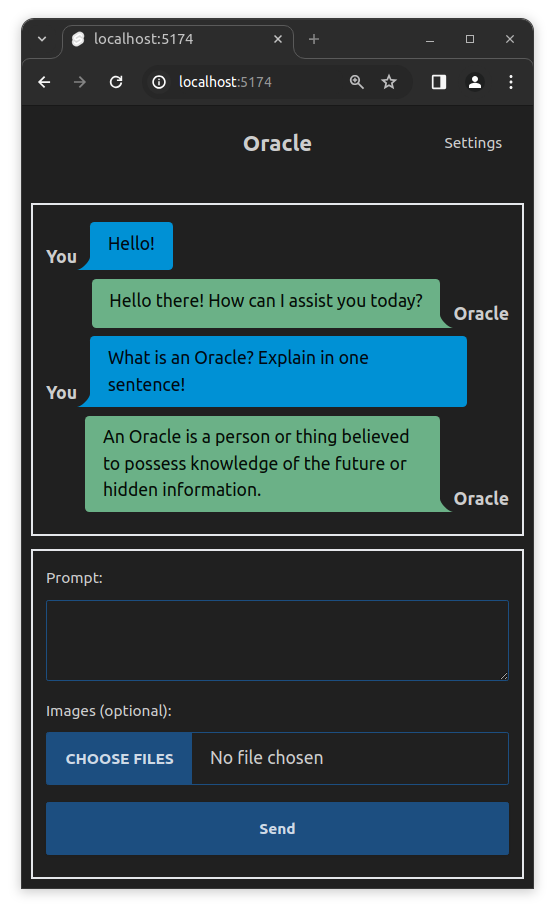
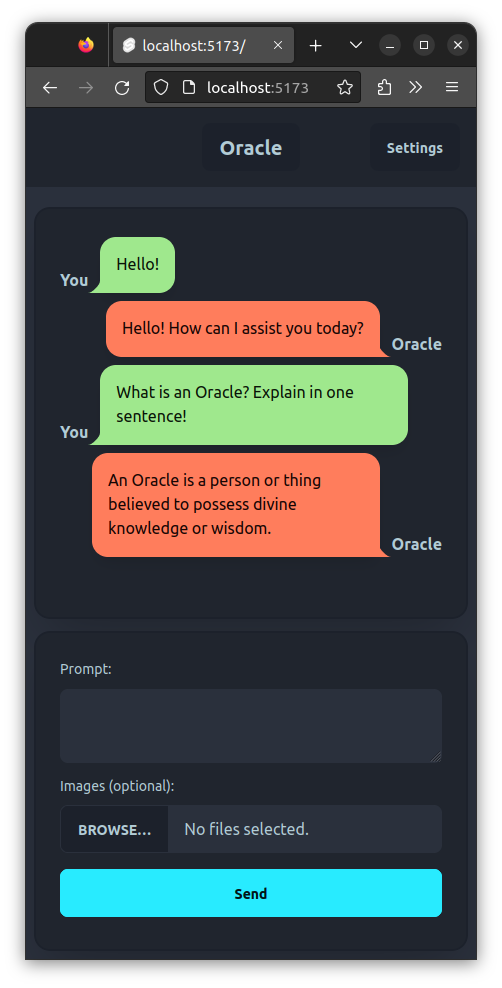
Update UI and error handling logic

diff --git a/src/routes/+page.svelte b/src/routes/+page.svelte
@@ -35,7 +35,11 @@
 
 		$messages = [...$messages, { role: 'user', parts: result }];
 		$messages = [...$messages, { role: 'model', parts: '' }];
-		await queryModel(input, history, debug, (text) => {
+		await queryModel(input, history, debug, (text, error) => {
+			if (error) {
+				$messages[$messages.length - 1].parts = text;
+				return;
+			}
 			$messages[$messages.length - 1].parts += text;
 		});
 
@@ -47,46 +51,53 @@
 	}
 </script>
 
-<div class="mt-3 flex-grow overflow-y-auto border-2 bg-base-100 p-3" use:scrollToBottom={$messages}>
+<div
+	class="mt-3 flex-grow overflow-y-auto rounded-2xl border-2 border-neutral bg-base-300 p-6 shadow-2xl"
+	use:scrollToBottom={$messages}
+>
 	{#each $messages as { role, parts }}
 		{#if role === 'user'}
 			<div class="chat chat-start">
-				<div class="chat-image">
+				<div class="chat-image text-base-content">
 					<strong>You</strong>
 				</div>
-				<div class="chat-bubble chat-bubble-info break-words">{@html marked.parse(parts)}</div>
+				<div
+					class="border-1 chat-bubble chat-bubble-primary break-words border-neutral p-4 text-primary-content shadow-lg"
+				>
+					{@html marked.parse(parts)}
+				</div>
 			</div>
 		{:else if role === 'model'}
 			<div class="chat chat-end">
-				<div class="chat-image">
+				<div class="chat-image text-base-content">
 					<strong>Oracle</strong>
 				</div>
-				<div class="chat-bubble chat-bubble-success break-words">{@html marked.parse(parts)}</div>
+				<div
+					class="border-1 chat-bubble chat-bubble-secondary break-words border-neutral p-4 text-secondary-content shadow-lg"
+				>
+					{@html marked.parse(parts)}
+				</div>
 			</div>
 		{/if}
 	{/each}
 </div>
-<div class="mt-3 border-2 bg-base-100 p-3">
-	<span class="label-text mr-3">Prompt:</span>
-	<textarea
-		class="textarea textarea-bordered textarea-primary my-2 w-full"
-		disabled={sending}
-		bind:value={prompt}
-	/>
+<div class="mt-3 rounded-2xl border-2 border-neutral bg-base-300 p-6 shadow-2xl">
+	<span class="label-text mr-3 text-base-content">Prompt:</span>
+	<textarea class="textarea-neutral textarea my-2 w-full" disabled={sending} bind:value={prompt} />
 
-	<span class="label-text mr-3">Images (optional):</span>
+	<span class="label-text mr-3 text-base-content">Images (optional):</span>
 	<input
 		type="file"
 		accept="image/*"
 		multiple
-		class="file-input file-input-bordered file-input-primary my-2 w-full"
+		class="file-input-neutral file-input my-2 w-full"
 		disabled={sending}
 		on:change={handleFileUpload}
 	/>
 
-	<button class="btn btn-primary my-2 w-full" disabled={sending} on:click={handleSend}>
+	<button class="btn btn-info my-2 w-full" disabled={sending} on:click={handleSend}>
 		{#if sending}
-			<span class="loading loading-spinner"></span>
+			<span class="loading loading-infinity loading-lg"></span>
 		{:else}
 			<span>Send</span>
 		{/if}

diff --git a/src/routes/settings/+page.svelte b/src/routes/settings/+page.svelte
@@ -29,14 +29,16 @@
 	}
 </script>
 
-<label class="label">
-	<span class="label-text">API Key</span>
-	<input type="text" class="input input-bordered input-primary w-full" bind:value={key} />
-</label>
-<label class="label">
-	<span class="label-text">Debug Mode</span>
-	<input type="checkbox" class="checkbox-primary checkbox" bind:checked={debug} />
-</label>
-<button class="btn btn-primary my-2 w-full" on:click={handleSave}>Save</button>
-<button class="btn btn-error my-2 w-full" on:click={handleWipeSettings}>Wipe Settings</button>
-<button class="btn btn-error my-2 w-full" on:click={handleWipeHistory}>Wipe History</button>
+<div class="mt-3 rounded-2xl border-2 border-neutral bg-base-300 p-6 shadow-2xl">
+	<label class="label">
+		<span class="label-text text-base-content">API Key</span>
+		<input type="text" class="input-neutral input w-full" bind:value={key} />
+	</label>
+	<label class="label">
+		<span class="label-text text-base-content">Debug Mode</span>
+		<input type="checkbox" class="checkbox-neutral checkbox" bind:checked={debug} />
+	</label>
+	<button class="btn btn-info my-2 w-full" on:click={handleSave}>Save</button>
+	<button class="btn btn-error my-2 w-full" on:click={handleWipeSettings}>Wipe Settings</button>
+	<button class="btn btn-error my-2 w-full" on:click={handleWipeHistory}>Wipe History</button>
+</div>

diff --git a/src/utils/gemini.js b/src/utils/gemini.js
@@ -13,9 +13,7 @@ export async function fileToImagePart(file) {
 
 export async function queryModel(input, history, debug, output_callback) {
 	if (!input || !input.key || !input.prompt || !input.images) {
-		output_callback(
-			'<span style="color:red">Please ensure valid API key, prompt or image files...</span>'
-		);
+		output_callback('Please ensure valid API key, prompt or image files...', true);
 		return;
 	}
 
@@ -36,11 +34,10 @@ export async function queryModel(input, history, debug, output_callback) {
 
 		// callback with stream data
 		for await (const chunk of result.stream) {
-			output_callback(chunk.text());
+			output_callback(chunk.text(), false);
 		}
 	} catch (error) {
-		output_callback(
-			`<span style="color:red">An error occurred...\n${debug ? error.message : ''}</span>`
-		);
+		const exception_output = debug ? `\n\n${error.message}` : '';
+		output_callback(`An error occurred...${exception_output}`, true);
 	}
 }

diff --git a/src/routes/+layout.svelte b/src/routes/+layout.svelte
@@ -4,14 +4,18 @@
 </script>
 
 <div class="flex h-[calc(100dvh)] w-screen flex-col">
-	<div class="navbar bg-base-100">
+	<div class="navbar bg-base-300">
 		<div class="navbar-start"></div>
 		<div class="navbar-center">
-			<a href="{base}/" class="btn btn-ghost text-xl">Oracle</a>
+			<a href="{base}/" class="btn btn-ghost bg-neutral text-xl text-neutral-content">Oracle</a>
 		</div>
 		<div class="navbar-end">
-			<ul class="menu menu-horizontal px-1">
-				<li><a href="{base}/settings">Settings</a></li>
+			<ul class="menu menu-horizontal">
+				<li>
+					<a href="{base}/settings" class="btn btn-ghost bg-neutral text-neutral-content"
+						>Settings</a
+					>
+				</li>
 			</ul>
 		</div>
 	</div>

diff --git a/README.md b/README.md
@@ -2,7 +2,7 @@
 
 Oracle is a AI chatbot client designed to provide engaging conversational experiences by leveraging cutting-edge AI models.
 
-## Version 1.2.0
+## Version 1.3.0
 
 ## Features
 
